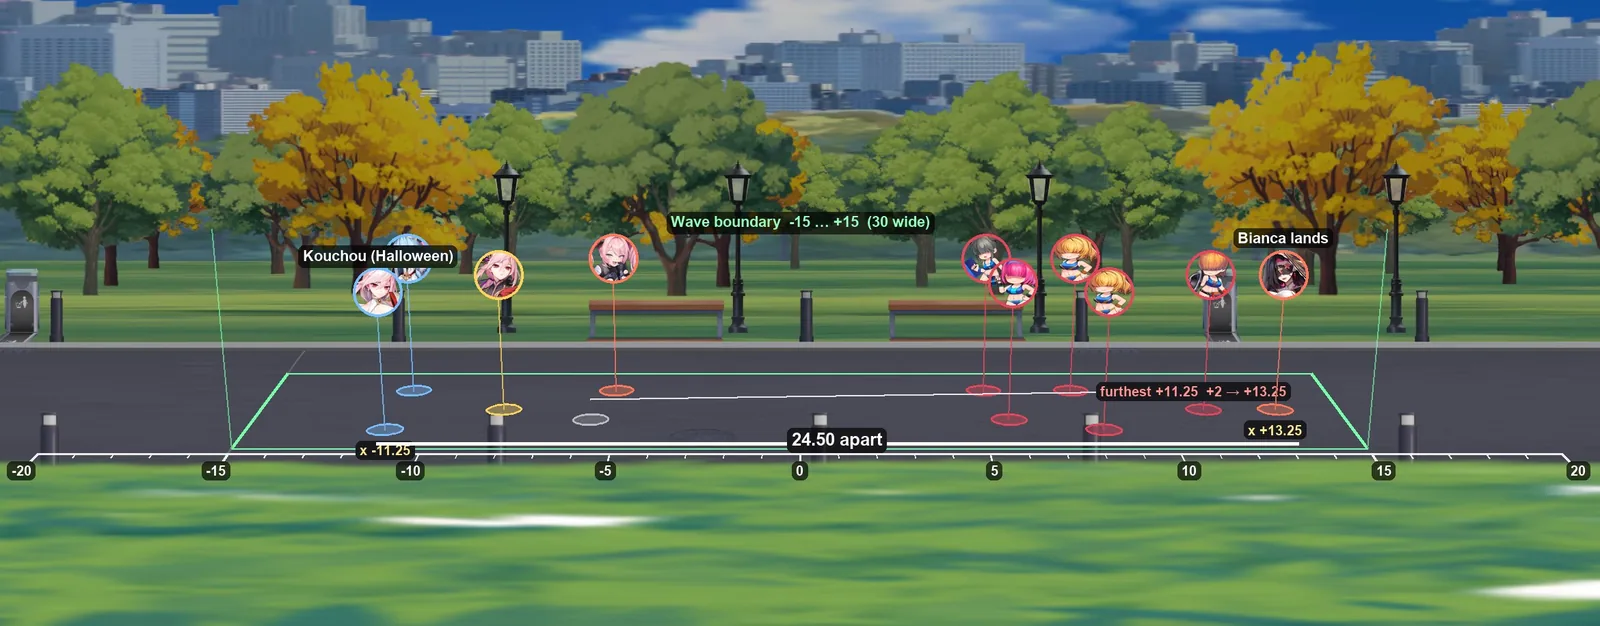
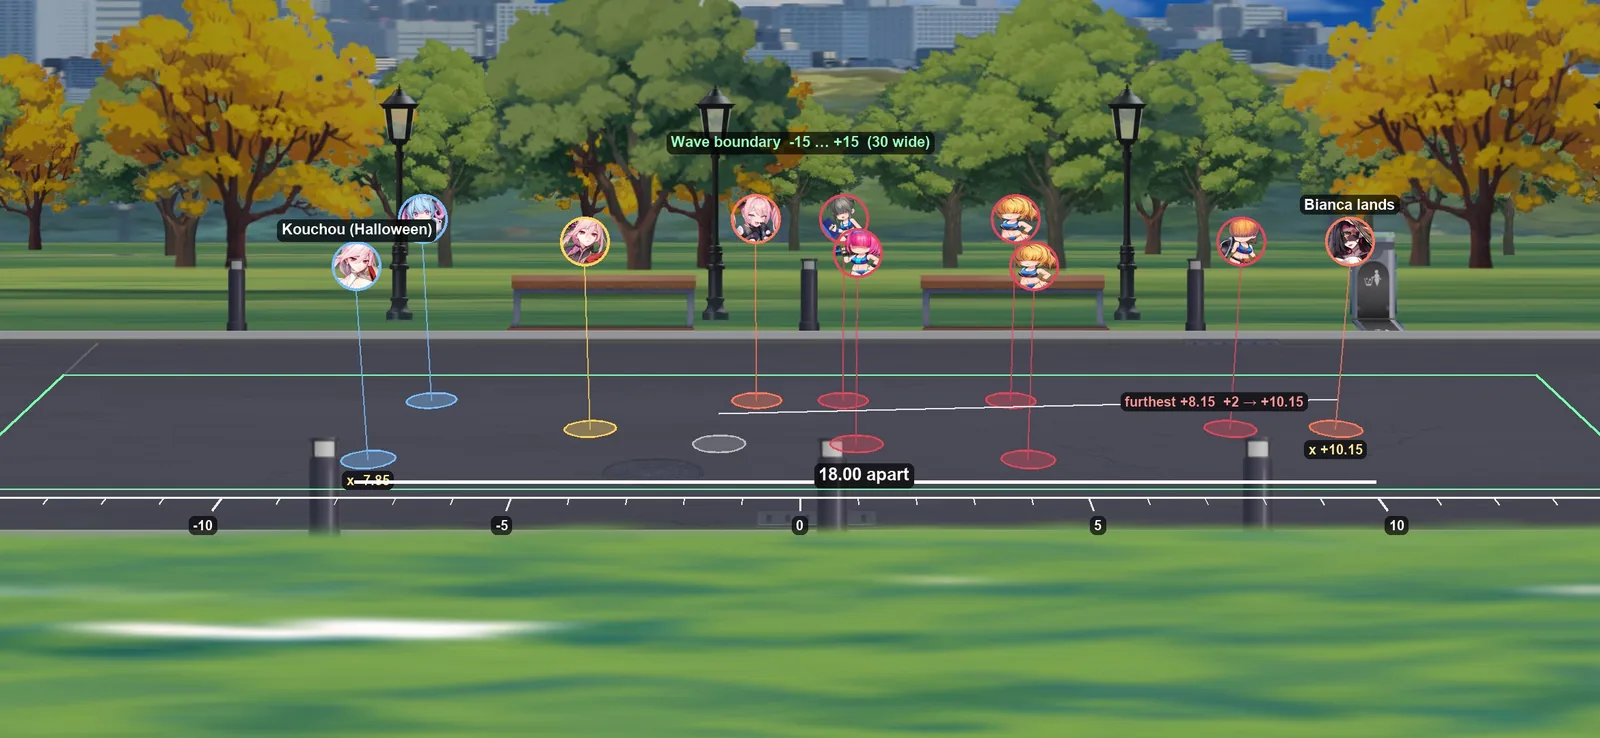
Place units where they stop after walking in, and draw the AoE caster at its combat position.

diff --git a/pages/field.tsx b/pages/field.tsx
@@ -8,7 +8,7 @@ import {
 } from '@chakra-ui/react';
 import { PageHeader, Panel } from '@altterisk/game-hub';
 import {
-  ALLY_SLOTS, ENEMY_SLOTS, FIELD, FIELD_GAME_VERSION, RUN_IN_GAP, type Slot, type SlotTable,
+  ALLY_SLOTS, DEFAULT_APPROACH, ENEMY_SLOTS, FIELD, FIELD_GAME_VERSION, RUN_IN_GAP, settle, type Slot, type SlotTable,
 } from '@/lib/battleField';
 import { loadCharacters, loadIcons, type CharacterData, type IconManifest } from '@/lib/data';
 import { useLang, useT } from '@/lib/i18n';
@@ -31,12 +31,26 @@ function slotsOf(table: SlotTable, counts: Counts): Placed[] {
   });
 }
 
-// Fronts end the run-in RUN_IN_GAP apart, centred on 0.
-function place(table: SlotTable, counts: Counts, side: -1 | 1): Placed[] {
+function lineUp(table: SlotTable, counts: Counts, side: -1 | 1): Placed[] {
   const raw = slotsOf(table, counts);
   if (!raw.length) return raw;
   const lead = side < 0 ? Math.max(...raw.map((u) => u.x)) : Math.min(...raw.map((u) => u.x));
   return raw.map((u) => ({ ...u, x: side * RUN_IN_GAP / 2 + (u.x - lead) }));
+}
+
+// Both lines walk in until every unit has the nearest enemy within its line's typical approach.
+function placeBoth(ally: Counts, enemy: Counts): { allies: Placed[]; enemies: Placed[] } {
+  const a = lineUp(ALLY_SLOTS, ally, -1);
+  const e = lineUp(ENEMY_SLOTS, enemy, 1);
+  if (!a.length || !e.length) return { allies: a, enemies: e };
+  const { units: walked } = settle([
+    ...a.map((u) => ({ x: u.x, z: u.z, r: FIELD.hitRadius, approach: DEFAULT_APPROACH.ally[u.line], side: 1 as const })),
+    ...e.map((u) => ({ x: u.x, z: u.z, r: FIELD.hitRadius, approach: DEFAULT_APPROACH.enemy[u.line], side: -1 as const })),
+  ]);
+  return {
+    allies: a.map((u, i) => ({ ...u, x: walked[i].x })),
+    enemies: e.map((u, i) => ({ ...u, x: walked[a.length + i].x })),
+  };
 }
 
 function Points({ items }: { items: ReactNode[] }) {
@@ -164,8 +178,7 @@ export default function FieldPage() {
   }, [chars, aoeUnit]);
 
   const plan = useMemo(() => {
-    const allies = place(ALLY_SLOTS, ally, -1);
-    const enemies = place(ENEMY_SLOTS, enemy, 1);
+    const { allies, enemies } = placeBoth(ally, enemy);
     const center = 0;
     return {
       allies, enemies, center,
@@ -188,8 +201,10 @@ export default function FieldPage() {
             L('Distances are in field units, along the battle line (x).', '거리는 전장 단위, 전투 라인(x) 기준.'),
             L('Positions reset every wave. 0 is the midpoint between your front unit and the enemy front unit when the wave starts.',
               '웨이브마다 위치가 초기화됨. 0은 웨이브 시작 시 아군 최전방과 적 최전방의 중간.'),
-            L(`Each wave your team runs in until the enemies are within ${FIELD.encounterDistance} (or your lead unit's approach, if larger) + ${FIELD.encounterRange} of your lead unit, edge included: the fronts start ${RUN_IN_GAP} apart (±${RUN_IN_GAP / 2}).`,
-              `웨이브마다 아군이 전진하다가 선두 유닛 기준 ${FIELD.encounterDistance}(선두의 접근 거리가 더 크면 그 값) + ${FIELD.encounterRange} 안에 적(가장자리 포함)이 들어오면 멈춤: 양 최전방은 ${RUN_IN_GAP} 떨어져 시작 (±${RUN_IN_GAP / 2}).`),
+            L(`Each wave both sides walk in at the same speed, and every unit stops once the nearest enemy it can target (to its edge) is within its approach distance. Approach is a per-character stat, not attack range: most attacks reach the whole field. The fronts end up nearly touching, about the smaller front-line approach + ${FIELD.hitRadius} apart.`,
+              `웨이브마다 양측이 같은 속도로 다가가며, 각 유닛은 대상으로 삼을 수 있는 가장 가까운 적(가장자리 기준)이 접근 거리 안에 들어오면 멈춤. 접근 거리는 캐릭터별 수치이며 공격 사거리가 아님(대부분 공격은 전장 전체). 양 최전방은 거의 맞닿음: 전열 접근 거리 중 작은 값 + ${FIELD.hitRadius} 정도.`),
+            L(`Planner: units use their line's typical approach (yours ${DEFAULT_APPROACH.ally[1]} / ${DEFAULT_APPROACH.ally[2]} / ${DEFAULT_APPROACH.ally[3]}, enemies ${DEFAULT_APPROACH.enemy[1]} / ${DEFAULT_APPROACH.enemy[2]} / ${DEFAULT_APPROACH.enemy[3]}).`,
+              `배치 계산: 열별 대표 접근 거리 사용 (아군 ${DEFAULT_APPROACH.ally[1]} / ${DEFAULT_APPROACH.ally[2]} / ${DEFAULT_APPROACH.ally[3]}, 적 ${DEFAULT_APPROACH.enemy[1]} / ${DEFAULT_APPROACH.enemy[2]} / ${DEFAULT_APPROACH.enemy[3]}).`),
             L(`Depth (z) only spreads a line out; ranges ignore it except circle areas.`, '깊이(z)는 열을 펼칠 뿐, 원형 범위 외에는 거리 계산에 쓰이지 않음.'),
             L(`Every unit is ${FIELD.hitRadius * 2} wide (hit radius ${FIELD.hitRadius}) unless noted on its page.`, `모든 유닛의 폭은 ${FIELD.hitRadius * 2} (히트 반경 ${FIELD.hitRadius}), 별도 표기 제외.`),
           ]} />
@@ -265,8 +280,8 @@ export default function FieldPage() {
               `경계는 웨이브 시작 시 고정: 폭 ${FIELD.boundaryHalf * 2}, −${FIELD.boundaryHalf} … +${FIELD.boundaryHalf}.`),
             L('It only limits knockback, dashes, directional moves and confusion/fear movement; walking ignores it.',
               '넉백, 돌진, 방향 이동, 혼란/공포 이동에만 적용. 걷기는 무시.'),
-            L('Example (stage 1004105 wave 1, 2/1/2 vs 2/2/1): the furthest enemy is at +11.25, so Bianca lands at +13.25, behind it and 24.5 from a back-line Kouchou (Halloween) at −11.25.',
-              '예시 (스테이지 1004105 1웨이브, 2/1/2 대 2/2/1): 가장 먼 적이 +11.25에 있어 비앙카는 그 뒤 +13.25에 착지, −11.25의 후열 홍접(할로윈)과 24.5 거리.'),
+            L('Example (stage 1004105 wave 1, 2/1/2 vs 2/2/1): the furthest enemy is at +8.15, so Bianca lands at +10.15, behind it and 18.0 from a back-line Kouchou (Halloween) at −7.85.',
+              '예시 (스테이지 1004105 1웨이브, 2/1/2 대 2/2/1): 가장 먼 적이 +8.15에 있어 비앙카는 그 뒤 +10.15에 착지, −7.85의 후열 홍접(할로윈)과 18.0 거리.'),
           ]} />
         </VStack>
       </Panel>

diff --git a/components/aoeStage.tsx b/components/aoeStage.tsx
@@ -37,8 +37,10 @@ export default function AoeStage({ chars, icons, unit, skill: initialSkill }: {
 
   const entry = chars.characters[code];
   const behaviour = chars.skills[skill]?.behaviour as SkillBehaviour | undefined;
-  const units = useMemo(() => (entry
-    ? soloField((entry.positionType ?? 1) as 1 | 2 | 3, code, entry.hitRadius ?? FIELD.hitRadius) : []), [entry, code]);
+  const solo = useMemo(() => (entry
+    ? soloField((entry.positionType ?? 1) as 1 | 2 | 3, code, entry.hitRadius ?? FIELD.hitRadius, entry.approach ?? 0)
+    : null), [entry, code]);
+  const units = useMemo(() => solo?.units ?? [], [solo]);
   const outcome = behaviour && units.length ? simulate(behaviour, units[0], units, null) : null;
   const placed = outcome ? units.map((u) => (u.key === outcome.caster.key ? outcome.caster : u)) : units;
   const areaHits = new Set((behaviour?.hits ?? []).map((h, i) => (isAreaHit(h) ? i : -1)).filter((i) => i >= 0));
@@ -94,6 +96,14 @@ export default function AoeStage({ chars, icons, unit, skill: initialSkill }: {
               {x % 5 === 0 && <text x={px(x)} y={h + 24} fill="#ccc" fontSize={12} textAnchor="middle">{x}</text>}
             </g>
           ))}
+          {solo && units[0] && solo.startX < units[0].x - 0.01 && (
+            <g>
+              <ellipse cx={px(solo.startX)} cy={pz(0)} rx={units[0].r * scale} ry={units[0].r * scale * 0.9}
+                fill="none" stroke="#78beff" strokeOpacity={0.6} strokeDasharray="3 3" />
+              <line x1={px(solo.startX)} y1={pz(0)} x2={px(units[0].x)} y2={pz(0)}
+                stroke="#78beff" strokeOpacity={0.6} strokeWidth={2} strokeDasharray="3 3" />
+            </g>
+          )}
           {outcome?.path.map((p, i) => (
             <line key={i} x1={px(p.from[0])} y1={pz(p.from[1])} x2={px(p.to[0])} y2={pz(p.to[1])}
               stroke="#fff" strokeWidth={2} strokeDasharray="4 3" />
@@ -102,10 +112,12 @@ export default function AoeStage({ chars, icons, unit, skill: initialSkill }: {
             const me = u.side === 'ally';
             const r = u.r * scale;
             const target = outcome?.targets.has(u.key) && !me;
+            const hit = !me && (outcome?.affected.get(u.key) ?? []).some((h) => areaHits.has(h));
             return (
               <g key={u.key}>
                 <ellipse cx={px(u.x)} cy={pz(u.z)} rx={r} ry={r * 0.9}
-                  fill={me ? '#78beff' : '#9aa0b4'} fillOpacity={me ? 0.8 : 0.35} stroke={me ? '#fff' : '#9aa0b4'} strokeWidth={2} />
+                  fill={me ? '#78beff' : hit ? ZONE : '#9aa0b4'} fillOpacity={me || hit ? 0.8 : 0.35}
+                  stroke={me ? '#fff' : hit ? ZONE : '#9aa0b4'} strokeWidth={2} />
                 {target && <circle cx={px(u.x)} cy={pz(u.z)} r={r + 5} fill="none" stroke="#fff" strokeWidth={2} />}
                 {me && icon && <image href={icon} x={px(u.x) - 13} y={pz(u.z) - r - 30} width={26} height={26} />}
               </g>
@@ -126,8 +138,8 @@ export default function AoeStage({ chars, icons, unit, skill: initialSkill }: {
             </HStack>
           ) : null))}
           <Text color="gray.500">
-            {L('Grey: a standard 2/2/1 wave. 0 is the centre between the fronts; distances count to unit edges.',
-              '회색: 일반 2/2/1 웨이브. 0은 양 최전방의 중심, 거리는 유닛 가장자리 기준.')}
+            {L('Grey: a standard 2/2/1 wave; red: hit. The unit walks from its start slot (dashed) until the nearest enemy is within its approach distance, and casts from there. 0 is the centre between the fronts at wave start; distances count to unit edges.',
+              '회색: 일반 2/2/1 웨이브, 빨강: 피격. 유닛은 시작 위치(점선)에서 가장 가까운 적이 접근 거리 안에 들어올 때까지 걸어가 그 자리에서 시전. 0은 웨이브 시작 시 양 최전방의 중심, 거리는 유닛 가장자리 기준.')}
           </Text>
         </VStack>
       )}

diff --git a/lib/battleField.ts b/lib/battleField.ts
@@ -52,7 +52,7 @@ export const ENEMY_SLOTS: SlotTable = {
   },
 };
 
-// 0 is the midpoint between the two front units once the run-in stops.
+// 0 is the midpoint between the two front units once both sides have walked in.
 export const FIELD = {
   encounterDistance: 9,
   encounterRange: 1,
@@ -60,6 +60,43 @@ export const FIELD = {
   boundaryDepth: 6,
   boundaryInset: 0.1,
   hitRadius: 0.5,
+  moveSpeed: 5,
 };
 
 export const RUN_IN_GAP = FIELD.encounterDistance + FIELD.encounterRange + FIELD.hitRadius;
+
+// Typical approach by line (median of the roster), for slots with no unit picked.
+export const DEFAULT_APPROACH = {
+  ally: { 1: 2.5, 2: 6, 3: 9.8 },
+  enemy: { 1: 1.9, 2: 4.5, 3: 8 },
+} as const;
+
+export type Walker = { x: number; z: number; r: number; approach: number; side: 1 | -1 };
+
+// Both sides walk in at the same speed; each unit stops once the nearest opposing edge is within its approach.
+export function settle(units: Walker[]): { units: Walker[]; centre: number } {
+  const out = units.map((u) => ({ ...u }));
+  const step = FIELD.moveSpeed * 0.01;
+  for (let frame = 0; frame < 20000; frame += 1) {
+    let moved = false;
+    const snapshot = out.map((u) => u.x);
+    for (let i = 0; i < out.length; i += 1) {
+      const u = out[i];
+      let gap = Infinity;
+      out.forEach((o, j) => {
+        if (o.side !== u.side) gap = Math.min(gap, Math.abs(snapshot[j] - snapshot[i]) - o.r);
+      });
+      const room = gap - u.approach;
+      if (room > 1e-6) {
+        u.x += u.side * Math.min(step, room);
+        moved = true;
+      }
+    }
+    if (!moved) break;
+  }
+  const allyFront = Math.max(...out.filter((u) => u.side === 1).map((u) => u.x));
+  const enemyFront = Math.min(...out.filter((u) => u.side === -1).map((u) => u.x));
+  const centre = Number.isFinite(allyFront + enemyFront) ? (allyFront + enemyFront) / 2 : 0;
+  return { units: out.map((u) => ({ ...u, x: u.x - centre })), centre };
+}
+

diff --git a/lib/aoe.ts b/lib/aoe.ts
@@ -1,4 +1,6 @@
-import { ALLY_SLOTS, ENEMY_SLOTS, FIELD, type SlotTable } from '@/lib/battleField';
+import {
+  ALLY_SLOTS, DEFAULT_APPROACH, ENEMY_SLOTS, FIELD, RUN_IN_GAP, settle, type SlotTable,
+} from '@/lib/battleField';
 import type { SkillBehaviour, SkillHit, SkillMoveTarget, SkillOp } from '@/lib/data';
 
 export type Side = 'ally' | 'enemy';
@@ -163,15 +165,21 @@ export function anchorOf(hit: SkillHit): Anchor {
   return cast.team === 'ENEMY' ? 'enemy' : 'ally';
 }
 
-// One caster in its line against a standard 2/2/1 wave, fronts 10.5 apart.
-export function soloField(line: 1 | 2 | 3, code: string, r: number): Unit[] {
-  const gap = FIELD.encounterDistance + FIELD.encounterRange + FIELD.hitRadius;
+// One caster vs a 2/2/1 wave after both sides have walked in; startX is its run-in slot.
+export function soloField(line: 1 | 2 | 3, code: string, r: number, approach = 0): { units: Unit[]; startX: number } {
   const [sx] = ALLY_SLOTS[line][1][0];
   const enemy = slotted(ENEMY_SLOTS, [1, 1, 2, 2, 3]);
   const lead = Math.min(...enemy.map((e) => e.x));
-  return [
-    { key: 'a0', side: 'ally', line, code, x: -gap / 2 + sx, z: 0, r },
-    ...enemy.map((e, i) => ({ key: `e${i}`, side: 'enemy' as const, line: e.line, x: gap / 2 + (e.x - lead), z: e.z, r: FIELD.hitRadius })),
-  ];
+  const startX = -RUN_IN_GAP / 2 + sx;
+  const { units: walked, centre } = settle([
+    { x: startX, z: 0, r, approach, side: 1 },
+    ...enemy.map((e) => ({ x: RUN_IN_GAP / 2 + (e.x - lead), z: e.z, r: FIELD.hitRadius, approach: DEFAULT_APPROACH.enemy[e.line], side: -1 as const })),
+  ]);
+  return {
+    units: [
+      { key: 'a0', side: 'ally', line, code, x: walked[0].x, z: 0, r },
+      ...enemy.map((e, i) => ({ key: `e${i}`, side: 'enemy' as const, line: e.line, x: walked[i + 1].x, z: e.z, r: FIELD.hitRadius })),
+    ],
+    startX: startX - centre,
+  };
 }
-
